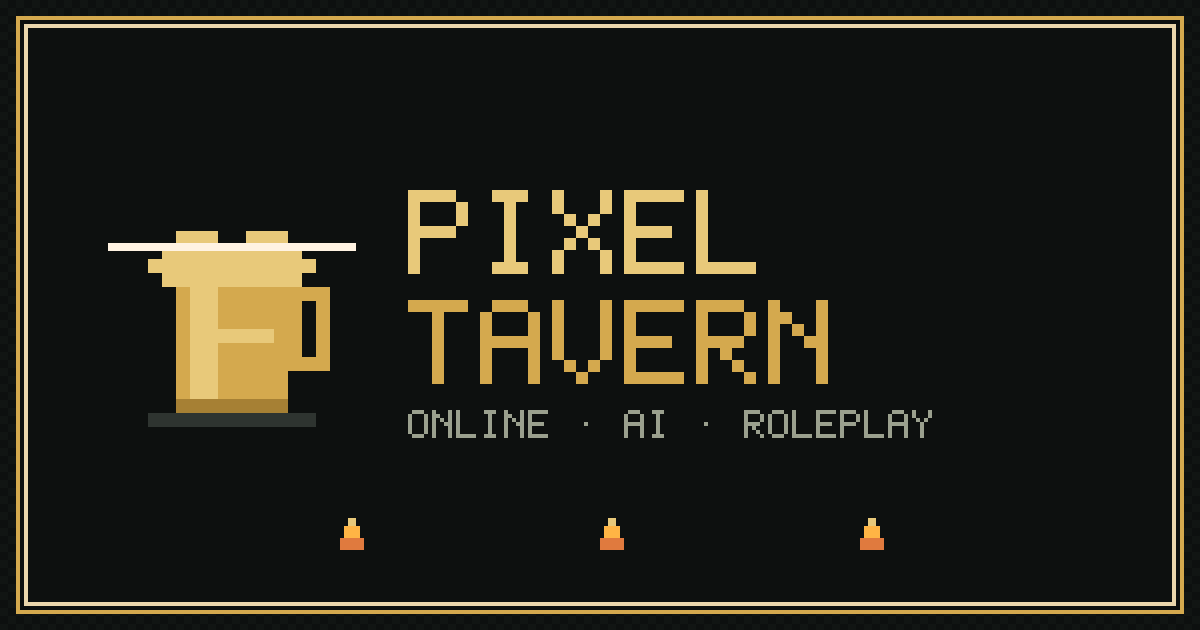
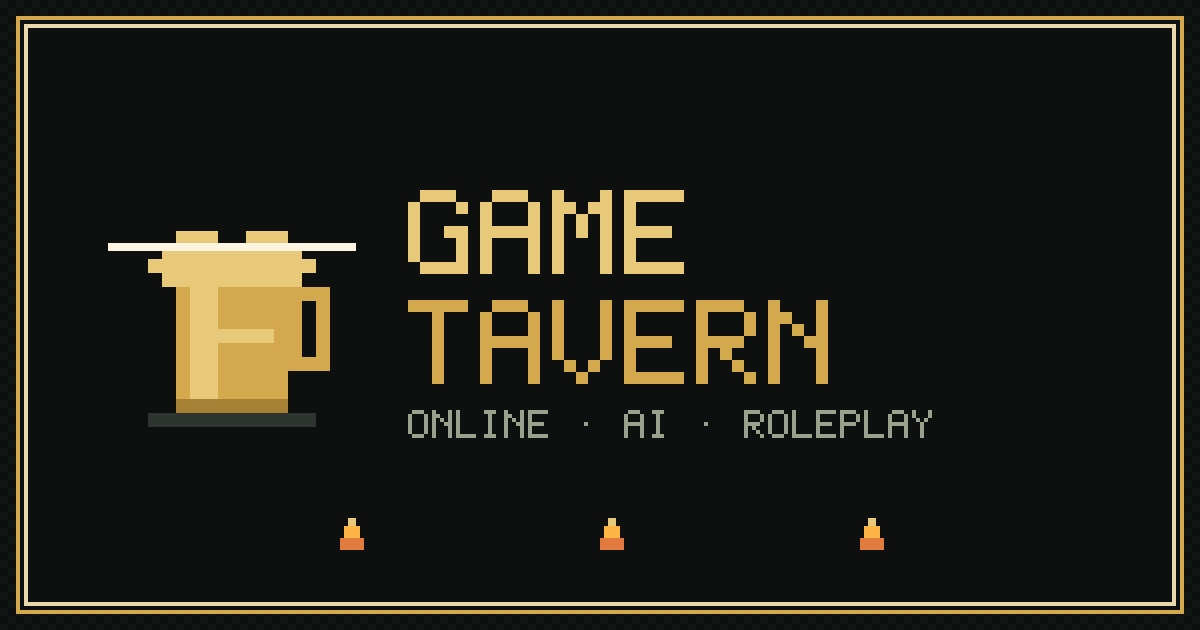
feat: rebrand 像素酒馆 -> 游戏酒馆 (Game Tavern)
- all display text: UI, SEO meta/OG, webmanifest, boot/ticker/welcome,
  AI system prompt, compliance notes, console logs, doc comments
- brand banner regenerated as GAME TAVERN (new 5x7 G/M glyphs)
- theme display name Game Tavern; demo card metadata regenerated
- asset fingerprints bumped to v=1303
- README-PIXEL-TAVERN.md renamed to README-GAME-TAVERN.md (git mv)
- code identifiers/paths kept (pixel-tavern dir, /api/pixel, PT_*,
  PIXEL_LLM_*) - infrastructure only, invisible to visitors

Changed region(s): [[0.3392, 0.3016, 0.5242, 0.4524], [0.555, 0.3016, 0.6475, 0.4524], [0.3392, 0.3016, 0.37, 0.3317]]

diff --git a/public/pixel-tavern/index.html b/public/pixel-tavern/index.html
@@ -4,26 +4,26 @@
     <meta charset="UTF-8">
     <meta name="viewport" content="width=device-width, initial-scale=1.0, viewport-fit=cover">
     <meta name="theme-color" content="#0d100f">
-    <meta name="description" content="像素酒馆 · Pixel Tavern — SillyTavern 风格的像素在线酒馆：免费角色卡集市、角色书架、沉浸互动与真实大模型 AI 角色扮演聊天。支持接入自己的 API。">
-    <meta name="keywords" content="像素酒馆, 在线酒馆, 在线酒馆聊天, SillyTavern, 角色卡集市, 免费角色卡, AI 角色扮演, AI 聊天, 陪伴, tavern">
-    <meta name="author" content="像素酒馆">
+    <meta name="description" content="游戏酒馆 · Game Tavern — SillyTavern 风格的像素在线酒馆：免费角色卡集市、角色书架、沉浸互动与真实大模型 AI 角色扮演聊天。支持接入自己的 API。">
+    <meta name="keywords" content="游戏酒馆, 在线酒馆, 在线酒馆聊天, SillyTavern, 角色卡集市, 免费角色卡, AI 角色扮演, AI 聊天, 陪伴, tavern">
+    <meta name="author" content="游戏酒馆">
     <meta name="robots" content="index,follow">
     <meta property="og:type" content="website">
-    <meta property="og:site_name" content="像素酒馆 · Pixel Tavern">
-    <meta property="og:title" content="像素酒馆 · Pixel Tavern — 在线酒馆聊天与 AI 角色扮演">
+    <meta property="og:site_name" content="游戏酒馆 · Game Tavern">
+    <meta property="og:title" content="游戏酒馆 · Game Tavern — 在线酒馆聊天与 AI 角色扮演">
     <meta property="og:description" content="免费角色卡集市、沉浸互动与真实大模型 AI 聊天，支持接入你自己的模型接口。">
     <meta property="og:image" content="/pixel-tavern/brand/og-banner.png">
     <meta name="twitter:card" content="summary_large_image">
-    <meta name="twitter:title" content="像素酒馆 · Pixel Tavern — 在线酒馆聊天与 AI 角色扮演">
+    <meta name="twitter:title" content="游戏酒馆 · Game Tavern — 在线酒馆聊天与 AI 角色扮演">
     <meta name="twitter:description" content="免费角色卡集市、沉浸互动与真实大模型 AI 聊天，支持接入你自己的模型接口。">
     <meta name="twitter:image" content="/pixel-tavern/brand/og-banner.png">
     <meta name="apple-mobile-web-app-capable" content="yes">
     <meta name="apple-mobile-web-app-status-bar-style" content="black-translucent">
-    <meta name="apple-mobile-web-app-title" content="像素酒馆">
+    <meta name="apple-mobile-web-app-title" content="游戏酒馆">
     <meta name="format-detection" content="telephone=no">
     <link rel="canonical" id="pt-canonical" href="/">
     <link rel="manifest" href="/pixel-tavern/site.webmanifest">
-    <title>像素酒馆 · Pixel Tavern — 在线酒馆聊天 · AI 角色扮演</title>
+    <title>游戏酒馆 · Game Tavern — 在线酒馆聊天 · AI 角色扮演</title>
     <link rel="preconnect" href="https://fonts.googleapis.com">
     <link rel="preconnect" href="https://fonts.gstatic.com" crossorigin>
     <link rel="stylesheet" href="https://fonts.googleapis.com/css2?family=Press+Start+2P&display=swap">
@@ -45,7 +45,7 @@
     <link rel="preload" href="/pixel-tavern/fonts/zpix-subset.woff2" as="font" type="font/woff2" crossorigin>
     <link rel="icon" href="/pixel-tavern/brand/icon-32.png" type="image/png" sizes="32x32">
     <link rel="apple-touch-icon" href="/pixel-tavern/brand/icon-192.png">
-    <link rel="stylesheet" href="/pixel-tavern/style.css?v=1302">
+    <link rel="stylesheet" href="/pixel-tavern/style.css?v=1303">
 </head>
 <body data-skin="clean">
 
@@ -53,8 +53,8 @@
     <div id="boot">
         <div class="boot-inner">
             <canvas id="boot-logo" width="160" height="48"></canvas>
-            <div class="boot-title">像素酒馆</div>
-            <div class="boot-sub">PIXEL TAVERN</div>
+            <div class="boot-title">游戏酒馆</div>
+            <div class="boot-sub">GAME TAVERN</div>
             <div class="boot-bar"><div id="boot-bar-fill"></div></div>
             <div id="boot-tip">正在点燃炉火…</div>
         </div>
@@ -64,10 +64,10 @@
     <header id="topbar">
         <div class="tb-left">
             <button class="px-btn sq" id="btn-drawer" title="公会柜台">☰</button>
-            <canvas id="logo-canvas" width="48" height="48" title="像素酒馆"></canvas>
+            <canvas id="logo-canvas" width="48" height="48" title="游戏酒馆"></canvas>
             <div class="logo-text">
-                <div class="logo-zh">像素酒馆</div>
-                <div class="logo-en">PIXEL TAVERN</div>
+                <div class="logo-zh">游戏酒馆</div>
+                <div class="logo-en">GAME TAVERN</div>
             </div>
             <span class="px-badge" id="version-badge">V1.3</span>
         </div>
@@ -216,7 +216,7 @@
                     <h1 class="view-title"><span class="en">CHANGELOG</span>更新通知</h1>
                 </div>
                 <article class="news-panel">
-                    <div class="news-date">2026.11.07 · PIXEL TAVERN</div>
+                    <div class="news-date">2026.11.07 · GAME TAVERN</div>
                     <h2>V1.3 「明炉真火」 上线版</h2>
                     <p>炉膛里烧起了真的火——酒馆接入真实大模型，并为公网部署做好了全部准备：</p>
                     <ul>
@@ -253,11 +253,11 @@
                     </ul>
                 </article>
                 <article class="news-panel">
-                    <div class="news-date">2026.11.05 · PIXEL TAVERN</div>
+                    <div class="news-date">2026.11.05 · GAME TAVERN</div>
                     <h2>V1.0 「炉火初燃」 上线</h2>
-                    <p>像素酒馆 Demo 正式点亮！本版本在原版 SillyTavern 之上改造出完整的像素酒馆门户：</p>
+                    <p>游戏酒馆 Demo 正式点亮！本版本在原版 SillyTavern 之上改造出完整的游戏酒馆门户：</p>
                     <ul>
-                        <li><b>像素酒馆门户</b> — 公会柜台、角色书架、滑卡书架与角色卡集市全部上线，像素风 UI 全面重绘。</li>
+                        <li><b>游戏酒馆门户</b> — 公会柜台、角色书架、滑卡书架与角色卡集市全部上线，像素风 UI 全面重绘。</li>
                         <li><b>内置对话引擎</b> — 每位角色内置专属剧本，无需 API Key 即可开聊；支持打字机效果与浏览器 TTS 朗读。</li>
                         <li><b>沉浸互动 BETA</b> — 完整剧情后给出三组行动选项、角色状态与剧情追踪，可随时切回传统聊天。</li>
                         <li><b>Build 角色卡制作</b> — 在浏览器里捏一个专属像素角色，立刻入书架、立刻开聊。</li>
@@ -366,7 +366,7 @@
                     </div>
                     <p class="set-note">隐私声明：聊天内容、角色卡、设置与 API Key 优先保存在你的浏览器本地，本站不收集个人数据（仅匿名访问计数）。版权声明：角色卡内容来自社区分享，仅供个人体验与交流，如有侵权请联系删除。使用包含成人内容的角色卡前，请确认你已年满 18 周岁。</p>
                     <div class="about-block">
-                        <div class="about-line">像素酒馆 <b>V1.3「明炉真火」</b></div>
+                        <div class="about-line">游戏酒馆 <b>V1.3「明炉真火」</b></div>
                         <div class="about-sub">基于开源项目 <b>SillyTavern 1.19.0</b> 改造，门户界面与角色内容为本项目原创演示</div>
                         <div class="about-sub">上游许可 AGPL-3.0 · 仅供学习交流 · 请遵守所在地法律法规使用 AI 生成内容</div>
                     </div>
@@ -456,8 +456,8 @@
         <!-- 欢迎弹窗 -->
         <div class="modal-window hidden" id="modal-welcome">
             <div class="welcome-head">
-                <div class="welcome-zh">欢迎来到像素酒馆</div>
-                <div class="welcome-en">WELCOME TO PIXEL TAVERN</div>
+                <div class="welcome-zh">欢迎来到游戏酒馆</div>
+                <div class="welcome-en">WELCOME TO GAME TAVERN</div>
             </div>
             <p class="welcome-lead">这里是像素风在线酒馆 Demo。角色卡完全免费，把角色带进一场真正的冒险。</p>
             <div class="steps">
@@ -497,11 +497,11 @@
 
     <div id="toast-wrap"></div>
 
-    <script src="/pixel-tavern/data.js?v=1302"></script>
-    <script src="/pixel-tavern/avatars.js?v=1302"></script>
-    <script src="/pixel-tavern/market.js?v=1302"></script>
-    <script src="/pixel-tavern/jukebox.js?v=1302"></script>
-    <script src="/pixel-tavern/chat.js?v=1302"></script>
-    <script src="/pixel-tavern/app.js?v=1302"></script>
+    <script src="/pixel-tavern/data.js?v=1303"></script>
+    <script src="/pixel-tavern/avatars.js?v=1303"></script>
+    <script src="/pixel-tavern/market.js?v=1303"></script>
+    <script src="/pixel-tavern/jukebox.js?v=1303"></script>
+    <script src="/pixel-tavern/chat.js?v=1303"></script>
+    <script src="/pixel-tavern/app.js?v=1303"></script>
 </body>
 </html>

diff --git a/public/pixel-tavern/chat.js b/public/pixel-tavern/chat.js
@@ -1,5 +1,5 @@
 /* ============================================================
- * 像素酒馆 · 对话引擎模块
+ * 游戏酒馆 · 对话引擎模块
  * 气泡/打字机/剧本/沉浸互动/导出/PNG 长图 + 真实大模型流式接入
  * （依赖 app.js 的 state/store/$/esc 等全局，均为运行时引用）
  * ============================================================ */
@@ -42,7 +42,7 @@ function aiReady() {
 
 function buildAIMessages(char) {
     const sys = [
-        '你是「' + char.name + '」——像素酒馆在线角色扮演中的角色。',
+        '你是「' + char.name + '」——游戏酒馆在线角色扮演中的角色。',
         char.title ? '角色定位：' + char.title + '。' : '',
         char.desc ? '角色设定：' + char.desc : '',
         '风格要求：全程用中文；保持角色扮演不出戏，不要提及你是 AI 或模型；动作用（…）表示，台词用「…」，偶尔用*轻动作*；每次回复控制在 50~200 字；根据用户的输入自然推进剧情，可以主动制造小事件或提问。',
@@ -466,7 +466,7 @@ function renderChatCanvas() {
     ctx.textBaseline = 'top';
     ctx.font = '22px "Zpix Local", "SimSun", monospace';
     ctx.fillStyle = '#e8c97a';
-    ctx.fillText(`像素酒馆 · 与「${c.name}」的对话`, PAD, 24);
+    ctx.fillText(`游戏酒馆 · 与「${c.name}」的对话`, PAD, 24);
     ctx.font = '13px "Zpix Local", "SimSun", monospace';
     ctx.fillStyle = '#9aa08e';
     ctx.fillText(`导出于 ${new Date().toLocaleString('zh-CN')}`, PAD, 58);
@@ -530,7 +530,7 @@ function renderChatCanvas() {
     /* 水印 */
     ctx.font = '10px "Press Start 2P", "Zpix Local", monospace';
     ctx.fillStyle = 'rgba(212, 169, 78, 0.45)';
-    ctx.fillText('PIXEL TAVERN', W - PAD - 130, cv.height - 26);
+    ctx.fillText('GAME TAVERN', W - PAD - 130, cv.height - 26);
     return cv;
 }
 
@@ -540,14 +540,14 @@ function doExportChat(fmt) {
     if (!c || !state.chat.session || !state.chat.session.messages.length) { toast('还没有可导出的消息'); return; }
     const lines = [];
     if (fmt === 'md') {
-        lines.push(`# 像素酒馆 · 与「${c.name}」的对话`, '', `> 导出时间：${new Date().toLocaleString('zh-CN')}`, '', '---', '');
+        lines.push(`# 游戏酒馆 · 与「${c.name}」的对话`, '', `> 导出时间：${new Date().toLocaleString('zh-CN')}`, '', '---', '');
         state.chat.session.messages.forEach(m => {
             const who = m.role === 'user' ? '**你**' : `**${c.name}**`;
             const t = new Date(m.t).toLocaleTimeString('zh-CN', { hour: '2-digit', minute: '2-digit' });
             lines.push(`${who} *${t}*`, '', m.text, '');
         });
     } else {
-        lines.push(`像素酒馆 · 与「${c.name}」的对话`, `导出时间：${new Date().toLocaleString('zh-CN')}`, '='.repeat(30), '');
+        lines.push(`游戏酒馆 · 与「${c.name}」的对话`, `导出时间：${new Date().toLocaleString('zh-CN')}`, '='.repeat(30), '');
         state.chat.session.messages.forEach(m => {
             const who = m.role === 'user' ? '你' : c.name;
             const t = new Date(m.t).toLocaleTimeString('zh-CN', { hour: '2-digit', minute: '2-digit' });

diff --git a/public/pixel-tavern/market.js b/public/pixel-tavern/market.js
@@ -1,5 +1,5 @@
 /* ============================================================
- * 像素酒馆 · 卡片市场模块
+ * 游戏酒馆 · 卡片市场模块
  * 卡片渲染/集市/详情弹窗/Build/导入导出/PNG 角色卡构建
  * （依赖 app.js 的 state/store/$/esc 等全局，均为运行时引用）
  * ============================================================ */
@@ -255,7 +255,7 @@ function initBuild() {
             card.title = $('#build-title').value.trim() || '酒馆的常客';
             card.category = $('#build-cat').value;
             card.greeting = $('#build-greeting').value.trim() || '你好呀，我是' + name + '。很高兴认识你！';
-            card.desc = $('#build-desc').value.trim() || '由像素酒馆 Build 功能亲手制作的角色。';
+            card.desc = $('#build-desc').value.trim() || '由游戏酒馆 Build 功能亲手制作的角色。';
             card.palette = { hair: $('#build-hair').value, bg1: $('#build-bg').value, bg2: $('#build-bg').value, skin: '#f2d3b3' };
             saveCustom();
             resetBuildForm();
@@ -271,7 +271,7 @@ function initBuild() {
             category: $('#build-cat').value,
             seed: Math.floor(Math.random() * 100000),
             tags: ['自制'],
-            desc: $('#build-desc').value.trim() || '由像素酒馆 Build 功能亲手制作的角色。',
+            desc: $('#build-desc').value.trim() || '由游戏酒馆 Build 功能亲手制作的角色。',
             greeting: $('#build-greeting').value.trim() || '你好呀，我是' + name + '。很高兴认识你！',
             origin: 'custom',
             palette: { hair: $('#build-hair').value, bg1: $('#build-bg').value, bg2: $('#build-bg').value, skin: '#f2d3b3' },
@@ -450,7 +450,7 @@ async function buildCardPng(char, cardJson) {
     g.fillText(char.name, 128, 230);
     g.font = '11px "Zpix Local", "SimSun", monospace';
     g.fillStyle = '#9aa08e';
-    g.fillText(char.title || 'PIXEL TAVERN', 128, 246);
+    g.fillText(char.title || 'GAME TAVERN', 128, 246);
     /* 双层金框 */
     g.strokeStyle = '#d4a94e';
     g.lineWidth = 4;
@@ -493,13 +493,13 @@ function buildCardPayload(c) {
             name: c.name,
             description: c.desc || '',
             personality: '',
-            scenario: '像素酒馆 · Pixel Tavern',
+            scenario: '游戏酒馆 · Game Tavern',
             first_mes: c.greeting || '',
             alternate_greetings: c.alts || [],
             mes_example: '',
-            creator_notes: '由像素酒馆门户导出，可在门户「导入角色卡」还原',
+            creator_notes: '由游戏酒馆门户导出，可在门户「导入角色卡」还原',
             tags: c.tags || [],
-            creator: 'Pixel Tavern',
+            creator: 'Game Tavern',
             character_version: '1.0',
             extensions: {
                 pixel_tavern: {

diff --git a/src/server-main.js b/src/server-main.js
@@ -210,7 +210,7 @@ if (!cliArgs.disableCsrf) {
     });
 }
 
-// 像素酒馆 SEO：robots.txt 与 sitemap.xml 动态生成（按请求主机名），优先于静态中间件，
+// 游戏酒馆 SEO：robots.txt 与 sitemap.xml 动态生成（按请求主机名），优先于静态中间件，
 // 使门户可被搜索引擎收录（原版 SillyTavern 的 public/robots.txt 为全站 Disallow，保持原样不动）。
 app.get(['/robots.txt', '/sitemap.xml'], (req, res) => {
     const proto = String(req.get('X-Forwarded-Proto') || req.protocol || 'https').split(',')[0].trim();
@@ -220,7 +220,7 @@ app.get(['/robots.txt', '/sitemap.xml'], (req, res) => {
     if (req.path === '/robots.txt') {
         res.type('text/plain');
         const lines = [
-            '# Pixel Tavern (像素酒馆)',
+            '# Game Tavern (游戏酒馆)',
             'User-agent: *',
             'Allow: /',
             'Disallow: /api/',
@@ -238,7 +238,7 @@ app.get(['/robots.txt', '/sitemap.xml'], (req, res) => {
 
 // Static files
 // Host index page
-// 像素酒馆 (Pixel Tavern): the default landing page is the pixel-tavern portal.
+// 游戏酒馆 (Game Tavern): the default landing page is the pixel-tavern portal.
 // The classic SillyTavern UI remains available at /?classic=1 (and /index.html).
 app.get('/', cacheBuster.middleware, (request, response) => {
     if (shouldRedirectToLogin(request)) {
@@ -277,7 +277,7 @@ app.use(express.static(path.join(serverDirectory, 'public'), {}));
 // Public API
 app.use('/api/users', usersPublicRouter);
 
-// 像素酒馆 (Pixel Tavern) public API: AI proxy, stats. Still behind CSRF; see src/endpoints/pixel.js
+// 游戏酒馆 (Game Tavern) public API: AI proxy, stats. Still behind CSRF; see src/endpoints/pixel.js
 app.use('/api/pixel', pixelRouter);
 
 // Everything below this line requires authentication

diff --git a/public/pixel-tavern/app.js b/public/pixel-tavern/app.js
@@ -1,5 +1,5 @@
 /* ============================================================
- * 像素酒馆 · 主逻辑
+ * 游戏酒馆 · 主逻辑
  * 视图路由 / 角色卡集市 / 书架 / 收藏 / 历史 / Build / 对话引擎
  * 沉浸互动 BETA / TTS / 导入导出 / 设置
  * ============================================================ */
@@ -217,7 +217,7 @@ function initExportImport() {
         if (!file) return;
         try {
             const data = JSON.parse(await file.text());
-            if (data.app !== 'pixel-tavern') { toast('不是像素酒馆的备份文件'); return; }
+            if (data.app !== 'pixel-tavern') { toast('不是游戏酒馆的备份文件'); return; }
             if (Array.isArray(data.favs)) { state.favs = data.favs; saveFavs(); }
             if (Array.isArray(data.history)) { state.history = data.history.slice(0, 30); saveHistory(); }
             if (Array.isArray(data.custom)) { state.custom = data.custom; saveCustom(); }

diff --git a/api/pixel/_lib.js b/api/pixel/_lib.js
@@ -1,5 +1,5 @@
 /* ============================================================
- * 像素酒馆 · Vercel Serverless 共享库
+ * 游戏酒馆 · Vercel Serverless 共享库
  * 与 src/endpoints/pixel.js、deploy/lite/server.mjs 同源的像素 API：
  *   共享模型走环境变量 PIXEL_LLM_*（密钥零下发）；
  *   访客 BYOK 走 x-pt-* 请求头（HTTPS-only 公网地址，防 SSRF）。
@@ -234,7 +234,7 @@ export function sendRobots(req, res) {
     res.setHeader('Content-Type', 'text/plain; charset=utf-8');
     res.setHeader('Cache-Control', 'public, max-age=3600');
     res.end([
-        '# Pixel Tavern (像素酒馆)',
+        '# Game Tavern (游戏酒馆)',
         'User-agent: *',
         'Allow: /',
         'Disallow: /api/',

diff --git a/src/endpoints/pixel.js b/src/endpoints/pixel.js
@@ -8,7 +8,7 @@ import { serverDirectory } from '../server-directory.js';
 import { getConfigValue } from '../util.js';
 
 /**
- * 像素酒馆 (Pixel Tavern) public API:
+ * 游戏酒馆 (Game Tavern) public API:
  *   GET  /api/pixel/status  – shared AI model availability (no secrets)
  *   POST /api/pixel/chat    – OpenAI-compatible streaming chat proxy
  *   POST /api/pixel/probe   – tiny non-streamed request to test BYOK credentials

diff --git a/public/pixel-tavern/data.js b/public/pixel-tavern/data.js
@@ -1,6 +1,6 @@
 /* ============================================================
- * 像素酒馆 · Pixel Tavern — Demo 数据
- * 全部角色与剧本为本 Demo 原创内容（像素酒馆 Demo），仅供演示。
+ * 游戏酒馆 · Game Tavern — Demo 数据
+ * 全部角色与剧本为本 Demo 原创内容（游戏酒馆 Demo），仅供演示。
  * ============================================================ */
 'use strict';
 

diff --git a/public/pixel-tavern/avatars.js b/public/pixel-tavern/avatars.js
@@ -1,5 +1,5 @@
 /* ============================================================
- * 像素酒馆 · 程序化像素头像 / 图标 / 炉火 / Logo 绘制
+ * 游戏酒馆 · 程序化像素头像 / 图标 / 炉火 / Logo 绘制
  * 全部在浏览器本地生成，无外部图片依赖。
  * ============================================================ */
 'use strict';

diff --git a/api/pixel/seo.js b/api/pixel/seo.js
@@ -1,4 +1,4 @@
-/* 像素酒馆 · GET /api/pixel/seo?type=robots|sitemap —— 动态 SEO 文件（按请求主机名生成） */
+/* 游戏酒馆 · GET /api/pixel/seo?type=robots|sitemap —— 动态 SEO 文件（按请求主机名生成） */
 'use strict';
 
 import { applySecurityHeaders, sendRobots, sendSitemap, sendJSON } from './_lib.js';

diff --git a/public/pixel-tavern/jukebox.js b/public/pixel-tavern/jukebox.js
@@ -1,5 +1,5 @@
 /* ============================================================
- * 像素酒馆 · 像素点唱机 PIXEL JUKEBOX
+ * 游戏酒馆 · 像素点唱机 PIXEL JUKEBOX
  * WebAudio 实时合成 8-bit 酒馆小曲，无外部音频文件。
  * ============================================================ */
 'use strict';

diff --git a/api/pixel/probe.js b/api/pixel/probe.js
@@ -1,4 +1,4 @@
-/* 像素酒馆 · POST /api/pixel/probe —— BYOK 接入点连通性测试 */
+/* 游戏酒馆 · POST /api/pixel/probe —— BYOK 接入点连通性测试 */
 'use strict';
 
 import { applySecurityHeaders, sameOrigin, rateLimit, clientIp, resolveUpstream, readJSONBody, sendJSON } from './_lib.js';
